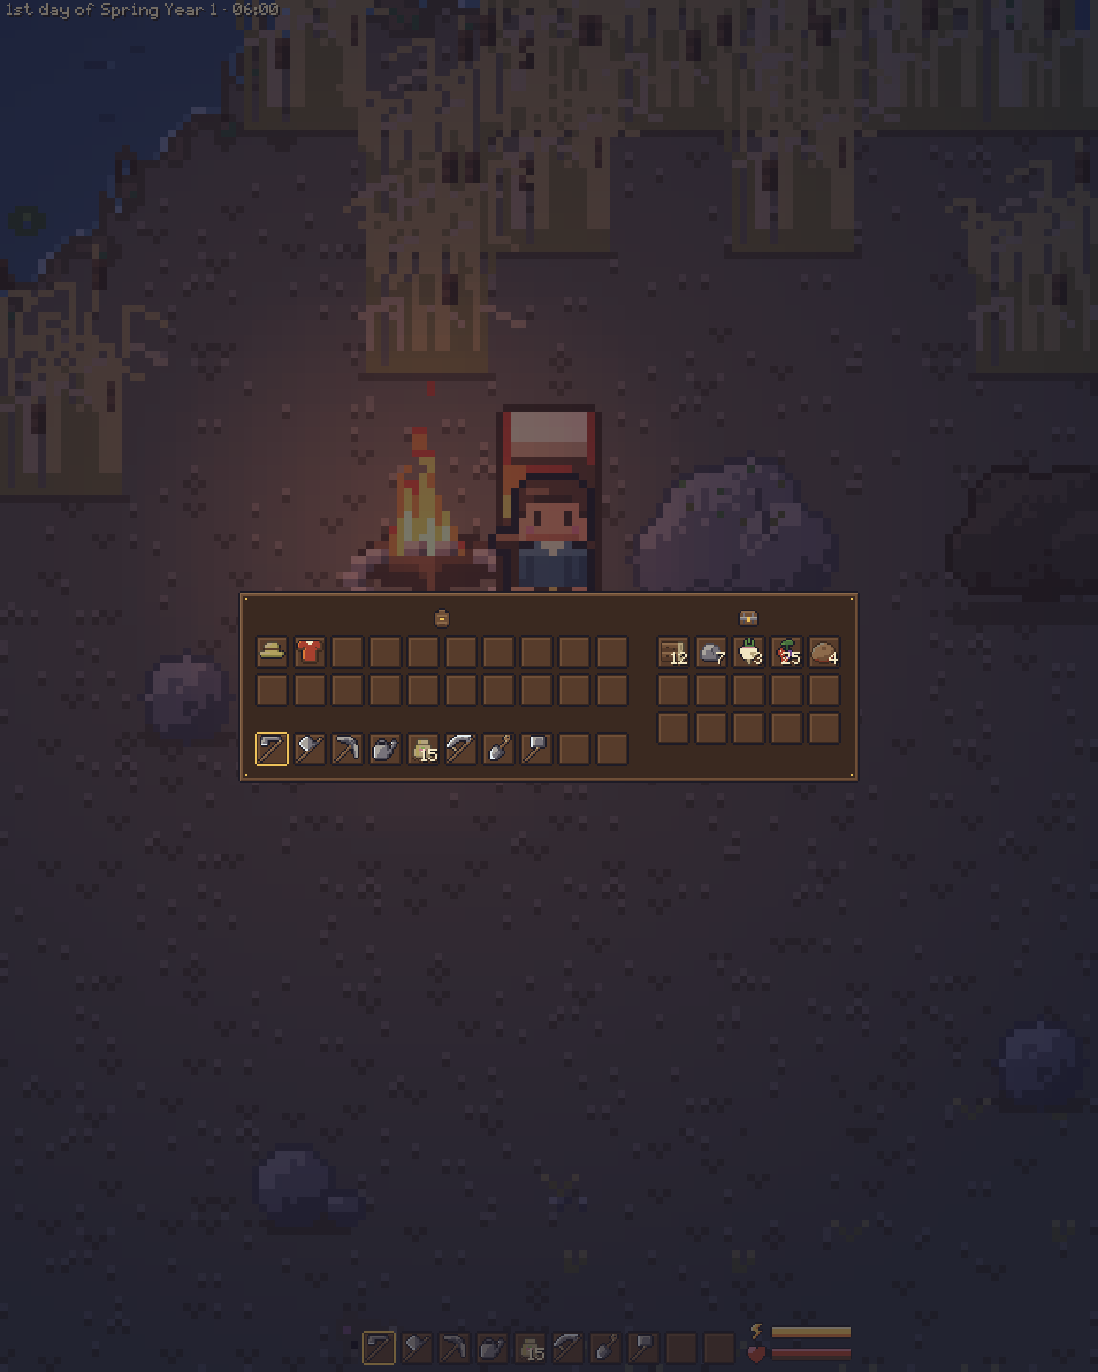
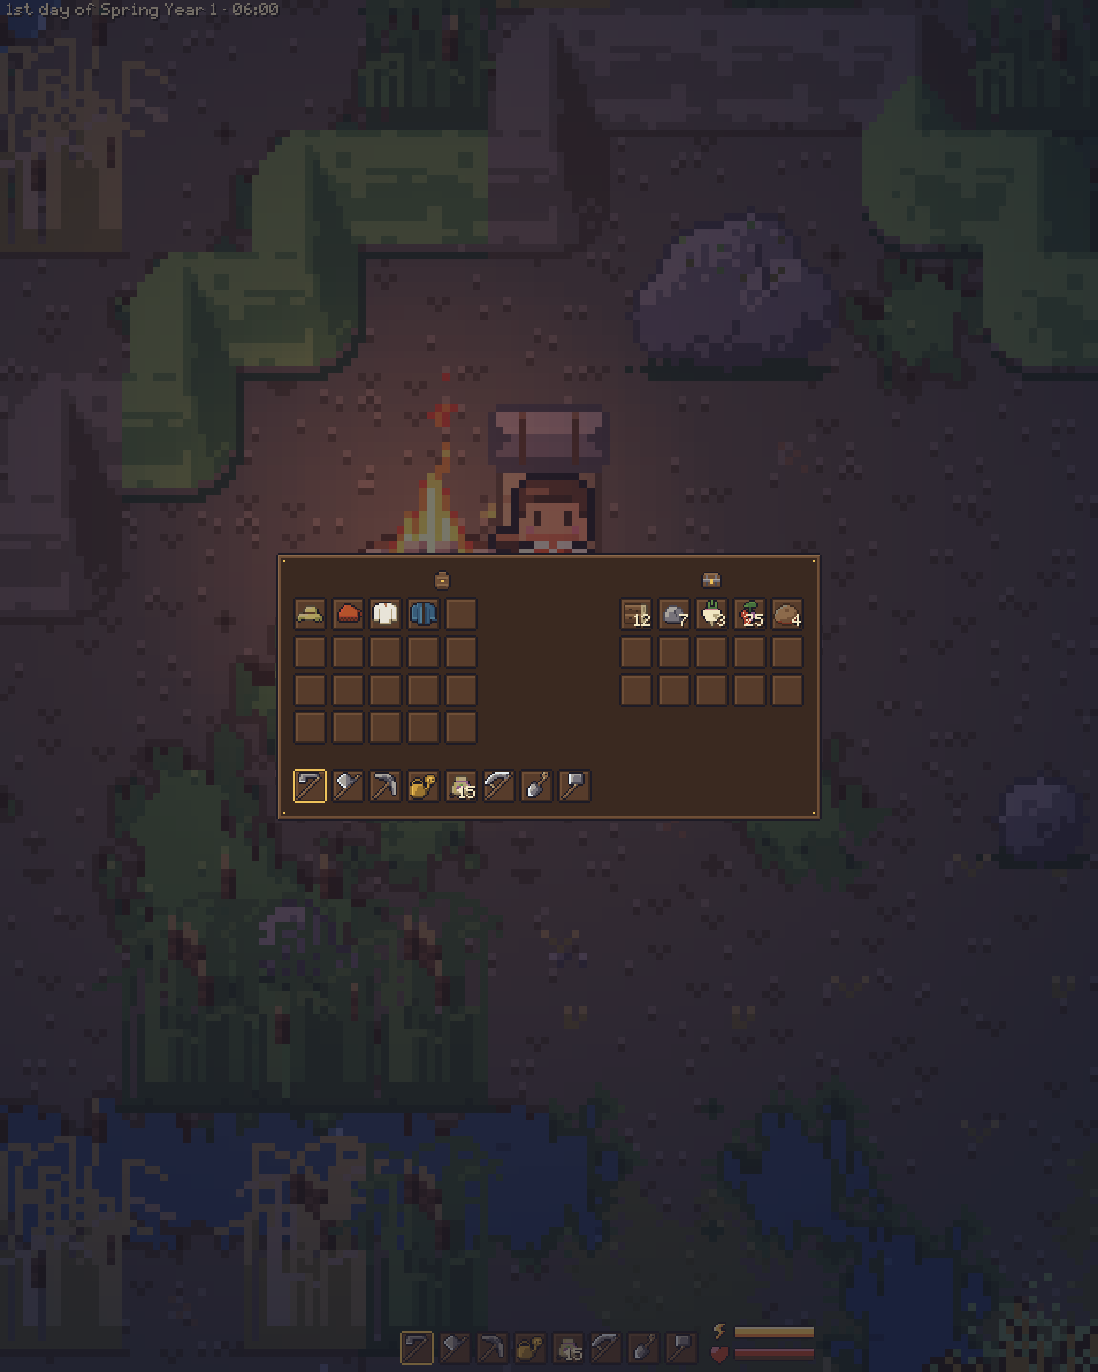
Docs: lighter load, 8-slot hotbar, 4x5 backpack (task 72 done)

diff --git a/SPEC.md b/SPEC.md
@@ -1,7 +1,7 @@
 # Sandbox Game: Spec
 
 Status: playable prototype (the milestone 1 slice and much more; the README lists what
-works today). Last updated: 2026-11-06.
+works today). Last updated: 2026-11-07.
 
 This file is the single source of truth for what the game is. Decisions move from
 "Open questions" to "Decided" as they are made.
@@ -169,7 +169,8 @@ top of classic pixel art (details under "Lighting and look").
       pass-out debuff and sleep change it.
     - **Costs per action** live in a hand-editable data file (`data/energy.cfg`). First
       values: tool use (till, hit, water) 2, planting and picking 0.5; walking is free.
-    - **Weight:** up to 20 kg costs nothing extra; above that, +10 % cost per 10 kg more.
+    - **Weight:** up to 40 kg costs nothing extra (changed 2026-11-07, was 20 kg); above
+      that, +10 % cost per 10 kg more. Tools weigh nothing (task 72).
     - **Low energy slows walking:** at 10 % or less to 75 % speed, below 5 % to 50 %.
     - **Passing out** at 0 (changed 2026-11-05): the player sleeps until the next 06:30,
       but at least 10 hours (collapsing at 22:00 wakes at 08:00, at 15:00 at 06:30), and
@@ -238,13 +239,15 @@ top of classic pixel art (details under "Lighting and look").
     keyboard action (Space) works on the tile the player faces, as before, and the
     highlight shows that tile again once the player moves.
 - **Inventory and equipment** (decided 2026-11-05):
-  - The **hotbar** (10 slots, shown at the bottom of the screen) and the **backpack** (20
-    slots) are separate (changed 2026-11-05): what is on the hotbar takes no backpack
-    space, so the player carries 30 slots. Screens show the backpack (two rows of ten,
-    as wide as the hotbar) with the hotbar as its own row below, set off by a small gap.
+  - The **hotbar** (8 slots, shown at the bottom of the screen; 10 until task 72) and the
+    **backpack** (20 slots) are separate (changed 2026-11-05): what is on the hotbar takes no
+    backpack space, so the player carries 28 slots. Screens show the backpack (4 rows of 5)
+    with the hotbar as its own row below, set off by a small gap. A version 10 save moves what
+    lay in the two dropped hotbar slots into the backpack (onto a stack of the same item
+    first), or onto the ground at the player's feet when the backpack is full.
     Shift+click from a chest sends a stack to the backpack first, then the hotbar. Picked-up items join a matching stack first, then take the first
     free slot, hotbar before backpack. Backpack upgrades later add rows to the backpack.
-  - The selected hotbar slot is what the player holds: keys 1–0 pick a slot. The use
+  - The selected hotbar slot is what the player holds: keys 1–8 pick a slot. The use
     action (left click or Space) acts with the held item.
   - Items of the same kind stack, up to 99 per slot; tools don't stack.
   - Every item has a weight; the total carried weight raises how much energy actions use
@@ -264,8 +267,8 @@ top of classic pixel art (details under "Lighting and look").
   - New game (period clothes since task 53, North Sea coast 1700–1800): a red waistcoat
     over a linen shirt, brown knee breeches with white stockings and wooden clogs worn; a
     straw hat, a knitted cap, a spare linen shirt and a short blue jacket in the inventory.
-    The clothes are light (0.3 to 0.6 kg), so a new game carries 19.9 kg, under the 20 kg
-    that cost no extra energy. Three hair styles: short, shoulder length, and long tied back
+    The clothes are light (0.3 to 0.6 kg) and the tools weigh nothing, so a new game carries
+    2.9 kg, far under the 40 kg that cost no extra energy. Three hair styles: short, shoulder length, and long tied back
     with a ribbon. Old saves (version 8) get the tunic and trousers renamed to the waistcoat
     and breeches and clogs on their bare feet. The straw hat has a low crown and a wide brim drooping at its ends (task 52,
     it read as a pith helmet); the knitted cap is a red wool stocking cap, as the guide's

diff --git a/README.md b/README.md
@@ -142,11 +142,12 @@ The character is drawn in layers, so anything they wear shows in the world. They
 on the North Sea coast in the 18th century: a red waistcoat over a linen shirt, knee breeches
 with white stockings, wooden clogs, and a short blue jacket and hats to put on. Press Tab to
 open the character screen, where you move items between the inventory and the equipment
-slots. The hotbar (the ten slots at the bottom of the screen, keys 1 to 0) holds your tools
-and seeds and is extra room: it takes nothing from the backpack's 20 slots, so you carry 30
-stacks. The screen shows the backpack with the hotbar as its own row below it, and new
-items fill the hotbar first. Energy and health bars track how tired you
-are, and the more you carry, the more each action costs. Below 20 % energy the character
+slots. The hotbar (the eight slots at the bottom of the screen, keys 1 to 8) holds your tools
+and seeds and is extra room: it takes nothing from the backpack's 20 slots (4 rows of 5), so
+you carry 28 stacks. The screen shows the backpack with the hotbar as its own row below it, and
+new items fill the free hotbar slots first. Energy and health bars track how tired you
+are, and the more you carry, the more each action costs: up to 40 kg is free, and tools
+weigh nothing. Below 20 % energy the character
 sweats with every action, and below 10 % even more. A "zzz" thought bubble pops up over the
 head at midnight and again at half past, while you are still awake: you pass out an hour
 after midnight.
@@ -226,7 +227,7 @@ These are the default keys; all of them can be changed under Settings → Contro
 |---|---|
 | WASD or arrow keys | Walk |
 | Space or left click | Use the held item on the targeted tile |
-| 1–0 | Pick a hotbar slot |
+| 1–8 | Pick a hotbar slot |
 | Tab | Character screen and inventory |
 | C | Crafting menu |
 | E | Open the chest in front of you, else sleep until morning (next to a bed); with the hammer in hand it picks the next building |

diff --git a/TASKS.md b/TASKS.md
@@ -353,7 +353,7 @@ text only while it shows; WorldView returns early with no falling trees.
 
 ## 72. Lighter load, 8-slot hotbar, 4×5 backpack
 
-- [ ] Done
+- [x] Done
 
 The user's answers of 2026-11-07:
 - Tools weigh nothing, and the weight that costs no extra energy goes up to 40 kg.
@@ -361,6 +361,20 @@ The user's answers of 2026-11-07:
 - The hotbar has 8 slots instead of 10 (keys 1-8). Old saves move whatever sits in the two
   dropped hotbar slots into the backpack, or onto the ground at the player's feet when it is
   full.
+
+Done: tools (every item with a `tool`) weigh 0 and the tooltip leaves out the weight line of a
+weightless item; `free_kg` is 40. The backpack is a grid of 5 columns and 4 rows on both screens,
+the hotbar a row of its own below it (8 slots wide; on the storage screen it no longer wraps to
+the backpack's width). `Inventory.HOTBAR_SIZE` is 8, so there are 28 slots; keys 1-8 (the
+`hotbar_9` and `hotbar_10` actions are gone, and `GameSettings.RETIRED_ACTIONS` lets a settings
+file that still binds them load without a warning). Save version 11: the upgrade moves what lay
+in old hotbar slots 8 and 9 into the first free backpack slots (onto stacks of the same item
+first), else onto the ground at the player's feet (piles 0.3 tiles apart), and a selected slot
+that is gone becomes slot 0. The version 1 step now builds its inventory in version 5's 20
+slots (it used the current layout, which the later steps would misread); the version 5 step
+widens to 30 literally. The 8 starting items fill the hotbar, so a new game has no free hotbar
+slot; harvests go to the backpack. Tests: `HotbarHold` fetches an item (or an empty hand) into
+the held slot, `SaveUpgradeCase` shares the old-save helpers.
 
 ## Later (not part of the prototype)
 
